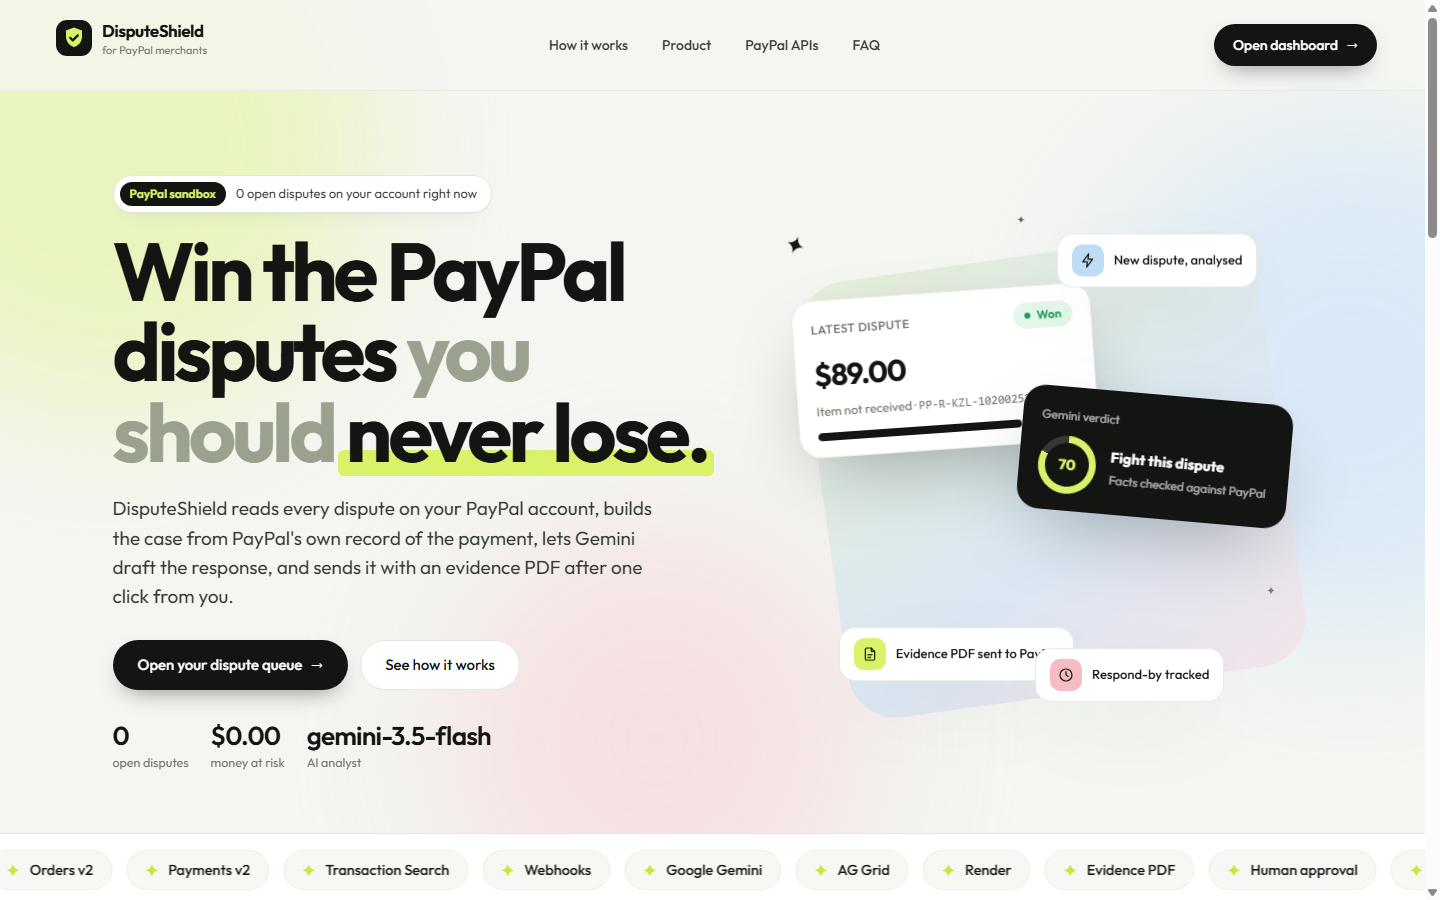
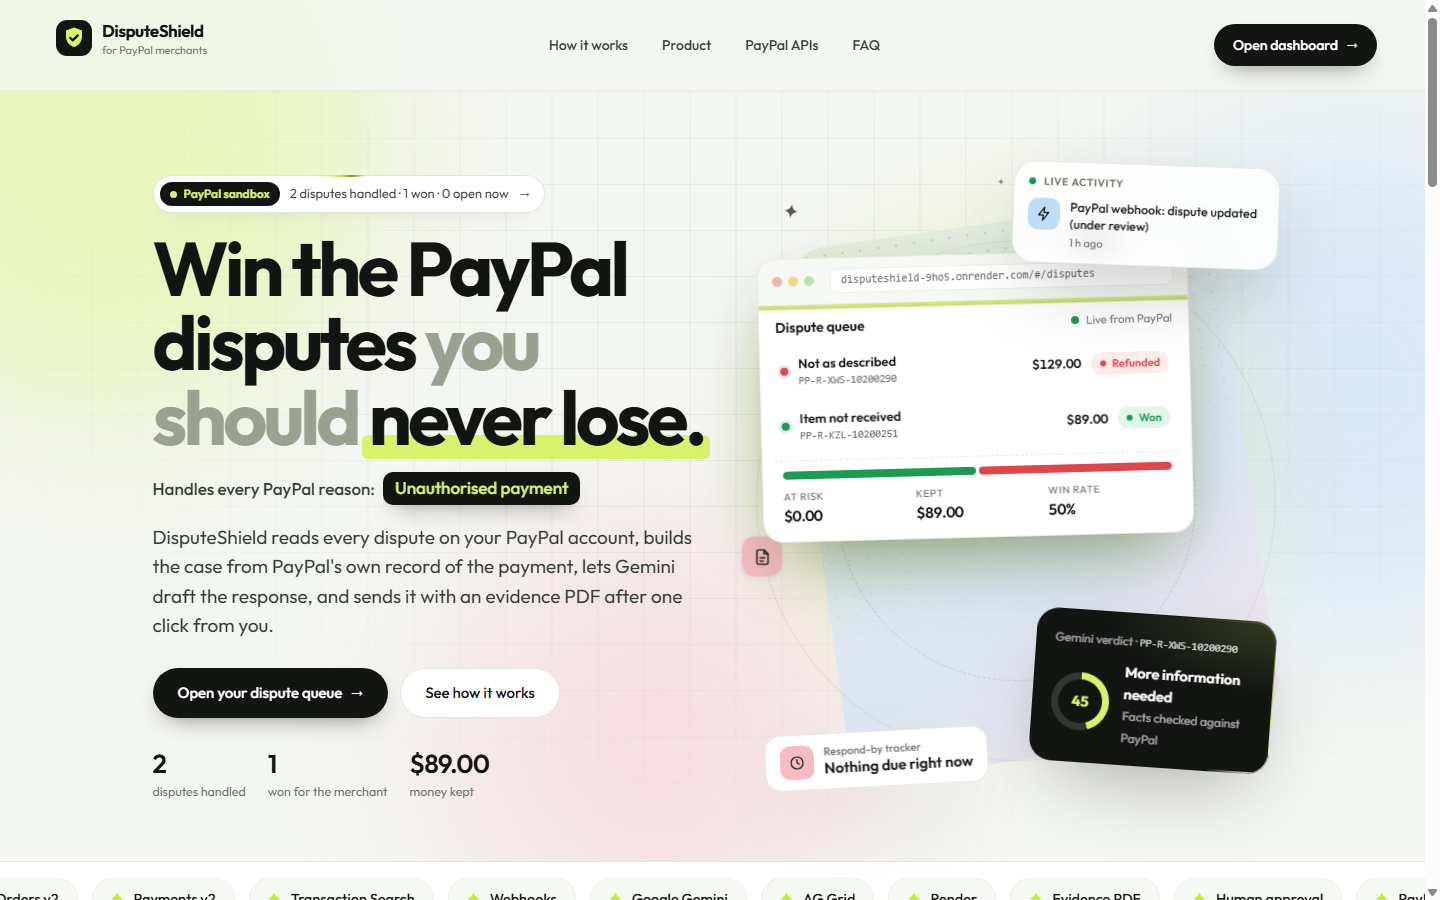
README: new landing screenshot and hero description

diff --git a/README.md b/README.md
@@ -28,7 +28,7 @@ A light, responsive interface (desktop, tablet and phone) with a product tour an
 
 | Page | Route | What it shows |
 | --- | --- | --- |
-| Product tour | `#/` | Hero with live numbers from your PayPal account, how it works, features, FAQ |
+| Product tour | `#/` | Hero with a live mini queue (newest cases, at risk, kept, win rate), activity, the latest Gemini verdict and a respond-by countdown; live numbers, how it works, features, FAQ |
 | Overview | `#/dashboard` | Money at risk, deadlines, disputes by reason, money disputed over 14 days, AI strength per case, recent activity and payments |
 | Disputes | `#/disputes` | AG Grid queue with status filters and search |
 | Case | `#/disputes/{id}` | Buyer's claim, PayPal's payment record, your fulfilment facts, Gemini's verdict, respond, sandbox controls, activity |
